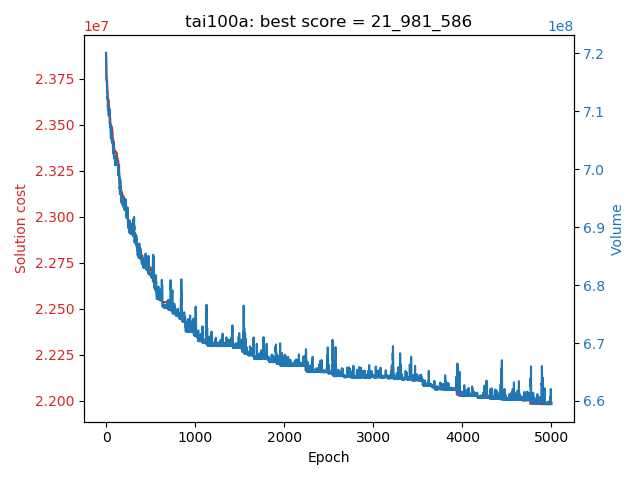
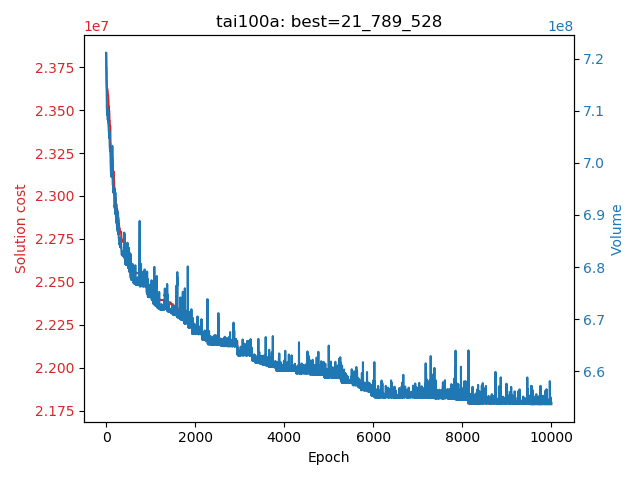
Add "no improvements" stop criterion and update results

diff --git a/3_GA_for_QAP/GA.py b/3_GA_for_QAP/GA.py
@@ -92,6 +92,8 @@ class GeneticAlgorithm:
 
     def solve(self, instance: Instance) -> (Solution, plt.Figure):
         volumes, best_solutions = [], []
+        no_improvements_steps = 0
+        sliding_window_size = int(self.n_epochs * 0.25)
         population = self._generate_population(instance)
         self.best_solution = min(population)
         epoch_counter = tqdm(iterable=range(self.n_epochs),
@@ -107,6 +109,12 @@ class GeneticAlgorithm:
             current_best_solution = min(population)
             if current_best_solution < self.best_solution:
                 self.best_solution = current_best_solution
+                no_improvements_steps = 0
+            else:
+                no_improvements_steps += 1
+                if no_improvements_steps == sliding_window_size:
+                    epoch_counter.close()
+                    break
 
             best_solutions.append(self.best_solution.cost)
             volume = sum(map(lambda s: s.cost, population))
@@ -201,7 +209,7 @@ class GeneticAlgorithm:
                              best_solutions: List[int],
                              volumes: List[int]) -> plt.Figure:
         image, ax1 = plt.subplots()
-        plt.title(f"{self.best_solution.instance.name}: best score = {self.best_solution.cost:_}")
+        plt.title(f"{self.best_solution.instance.name}: best={self.best_solution.cost:_}")
 
         color = 'tab:red'
         ax1.set_xlabel('Epoch')
@@ -241,8 +249,8 @@ class Utils:
 
         for instance in instances:
             print(f"Instance: {instance.name}")
-            n_tests = int(400 / instance.size)
-            n_epochs = 50 * instance.size
+            n_tests = int(1000 / instance.size)
+            n_epochs = 100 * instance.size
             best_sol = Utils.test_n_times(instance,
                                           n_tests,
                                           n_epochs,
@@ -277,8 +285,10 @@ class Utils:
         print(f"Best solution after tests: {best_cost:_}\n\n")
 
         fig = plt.figure()
-        plt.title(f"{instance.name:7} = {best_cost:_}"
-                  f"\nAvg cost = {int(np.average(costs)):_}")
+        plt.title(f"{instance.name:7}\n"
+                  f"best={best_cost:_} "
+                  f"avg={int(np.average(costs)):_} "
+                  f"worst={max(costs):_}")
         plt.xticks([])
         plt.ylabel('Solution cost')
         plt.plot(range(n_tests), sorted(costs))
